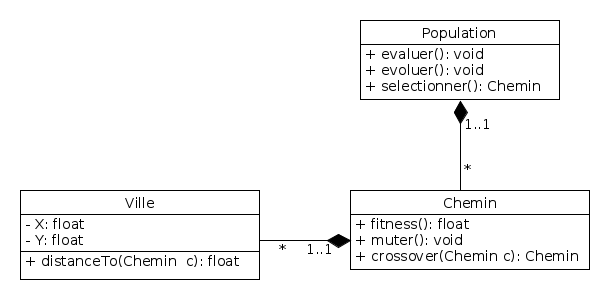
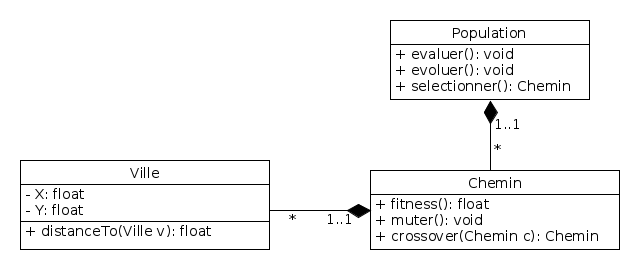
Diapo fini

Changed region(s): [[0.0311, 0.5926, 0.9967, 0.9481], [0.5918, 0.0593, 0.9344, 0.563], [0.9656, 0.6519, 0.9967, 0.7111]]

diff --git a/Soutenance/diapo.tex b/Soutenance/diapo.tex
@@ -15,13 +15,13 @@
 % \usefonttheme{serif}
 \title{Algorithme génétique: application au problème du voyageur de commerce}
 \author{Mathieu Mandret}
-\institute{IUT Paul Sabatier}
+\institute{M3202 - Modélisation}
 
 \begin{document}
 % Page de titre
 \begin{frame}
-  \maketitle
   \centering
+  \maketitle
   \includegraphics[scale=0.05]{logo_IUT.png}
 \end{frame}
 
@@ -76,8 +76,7 @@
   \frametitle{Approche déterministe}
   \[
   \begin{array}{r c l}
-  1 \text{ permutation} &=& 10^{-9}s \\ \pause{}
-  2.65 \times 10^{32} \text{ permutations} &=& 2.65 \times 10^{32} \times 10^{-9}s
+     1\text{ permutation} &=& 10^{-9}s
   \end{array}
   \]
 \end{frame}
@@ -155,6 +154,10 @@
 \end{block}
 \end{frame}
 
+\begin{frame}
+\frametitle{Architecture orientée objet}
+\includegraphics[scale=0.5]{UML_Class.png}
+\end{frame}
 \begin{frame}[fragile]
 \frametitle{Architecture orientée objet}
 \framesubtitle{\textbf{Ville}}
@@ -167,9 +170,7 @@ Distance par rapport à une autre ville
   \framesubtitle{Distance entre 2 villes}
   \begin{center}
   \[
-    ||\overrightarrow{AB}|| = \sqrt{(x_b - x_a)^2 + (y_b - y_a)^2} \\
-  \pause{}
-  \text{math.hypot}(x_b - x_a, y_a -  y_b)
+    ||\overrightarrow{AB}|| = \sqrt{(x_b - x_a)^2 + (y_b - y_a)^2}
   \]
   \end{center}
 \end{frame}
@@ -178,8 +179,10 @@ Distance par rapport à une autre ville
   \frametitle{Architecture orientée objet}
   \framesubtitle{\textbf{Chemin}}
   \begin{itemize}
-    \item Liste ordonnée de ville
+    \item Liste ordonnée de villes
     \item Calcul de la fitness
+    \item Croisement
+    \item Mutation
   \end{itemize}
 \end{frame}
 
@@ -187,7 +190,7 @@ Distance par rapport à une autre ville
   \frametitle{Chemin}
   \framesubtitle{Fitness d'un chemin}
   \[
-    \sum_{i}^{n-1} ||\overrightarrow{V_{i}V_{i+1}}||
+    \sum_{i = 0}^{n-2} ||\overrightarrow{V_{i}V_{i+1}}||
   \]
 \end{frame}
 
@@ -196,17 +199,7 @@ Distance par rapport à une autre ville
   \framesubtitle{Partially Matched Crossover}
     \begin{enumerate}
       \item Prendre $x$ villes du parent 1
-      \item Les mettre dans les positions correspondante dans le fils
-      \item Remplir le reste avec des villes du parent 2
-    \end{enumerate}
-\end{frame}
-
-\begin{frame}
-  \frametitle{Chemin}
-  \framesubtitle{Partially Matched Crossover}
-    \begin{enumerate}
-      \item Prendre $x$ villes du parent 1
-      \item Les mettre dans les positions correspondante dans le fils
+      \item Les mettre dans les positions correspondantes dans le fils
       \item Remplir le reste avec des villes du parent 2
     \end{enumerate}
 \end{frame}
@@ -220,15 +213,29 @@ Distance par rapport à une autre ville
 \end{frame}
 
 \begin{frame}
+  \frametitle{Chemin}
+  \framesubtitle{Mutation}
+  \begin{enumerate}
+    \item Swap
+    \item Scramble
+  \end{enumerate}
+\end{frame}
+
+\begin{frame}
+  \frametitle{Chemin}
+  \framesubtitle{Mutation}
+  \begin{enumerate}
+    \item Swap $\rightarrow$ échanger 2 villes
+    \item Scramble $\rightarrow$ mélanger les villes entre 2 bornes
+  \end{enumerate}
+\end{frame}
+
+\begin{frame}
   \frametitle{Architecture orientée objet}
   \framesubtitle{\textbf{Population}}
   \begin{itemize}
     \item Initialisation
-    \item Évolution
-      \begin{itemize}
-        \item Sélection
-        \item Mutation
-      \end{itemize}
+    \item Selection
     \item Condition d'arrêt
   \end{itemize}
 \end{frame}
@@ -237,7 +244,9 @@ Distance par rapport à une autre ville
   \frametitle{Population}
   \framesubtitle{Initialisation}
   Chemin uniques $\rightarrow$ Diversité \\
-  Opérateur \emph{not in}
+  Opérateur \emph{not in} \\ \pause{}
+  Meilleur chemin \pause{} $\rightarrow$ None\\ \pause{}
+  Meilleure longueur \pause{ $\rightarrow$ \emph{math.inf}}\\
 \end{frame}
 
 \begin{frame}
@@ -302,24 +311,6 @@ Distance par rapport à une autre ville
   \]
 \end{frame}
 
-\begin{frame}
-  \frametitle{Population}
-  \framesubtitle{Mutation}
-  \begin{enumerate}
-    \item Swap
-    \item Scramble
-  \end{enumerate}
-\end{frame}
-
-\begin{frame}
-  \frametitle{Population}
-  \framesubtitle{Mutation}
-  \begin{enumerate}
-    \item Swap $\rightarrow$ échanger 2 villes
-    \item Scramble $\rightarrow$ mélanger les villes entre 2 bornes
-  \end{enumerate}
-\end{frame}
-
 \section{Résultats}
 \begin{frame}
   \frametitle{Mesurer l'efficacité}
@@ -342,7 +333,7 @@ Distance par rapport à une autre ville
 \begin{frame}
   \begin{figure}
   \frametitle{Mesurer l'efficacité}
-  \framesubtitle{Pourcentage d'amélioration}
+  \framesubtitle{Carte}
     \includegraphics[width=0.5\textwidth]{gen1.png}
     \includegraphics[width=0.5\textwidth]{gen200.png}
   \end{figure}
@@ -353,7 +344,8 @@ Distance par rapport à une autre ville
 \begin{frame}
   \frametitle{Conclusion}
   \pause{}
-  Difficultés: Crossover, et roulette.
+  Découverte des algorithmes génétique, pratique POO en Python \pause{} \\
+  Difficultés: Crossover, et roulette, tests.
 \end{frame}
 
 \end{document}
